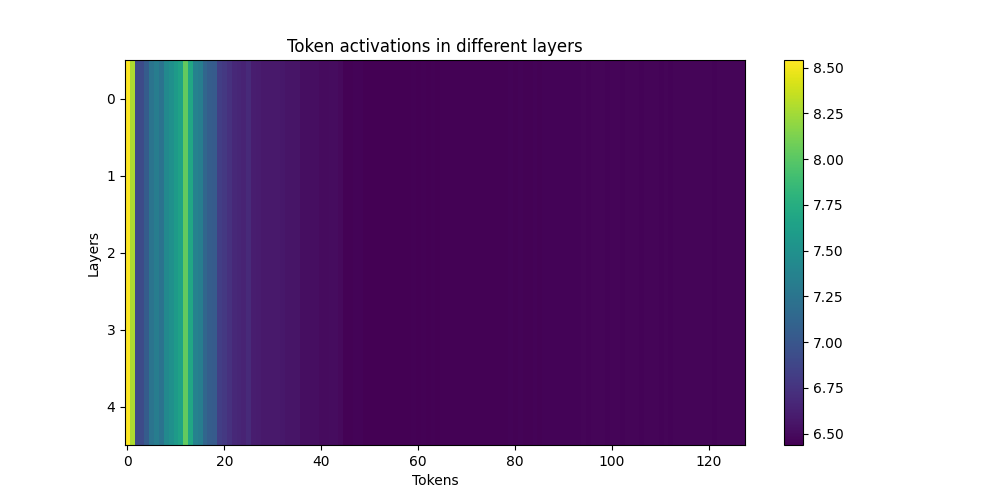
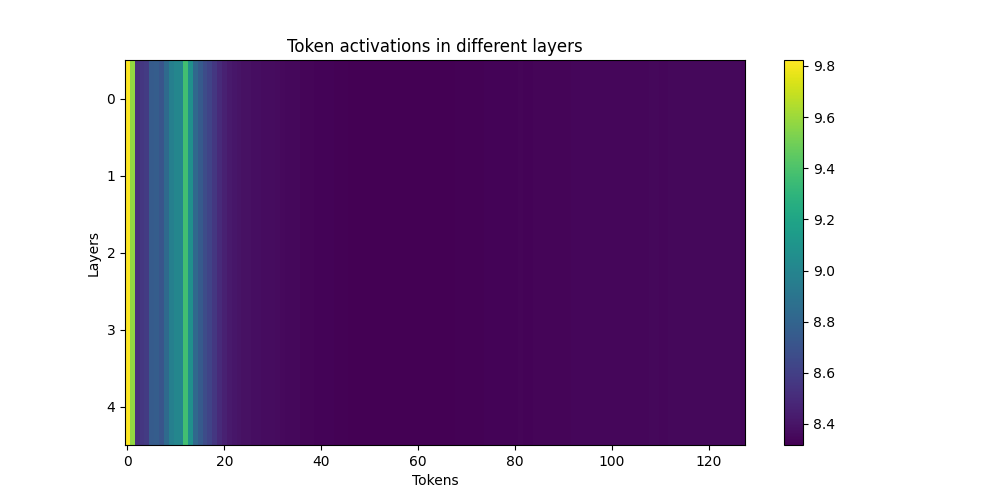
activation norm w/ batches

diff --git a/main.py b/main.py
@@ -43,6 +43,37 @@ def activation_embeds_fn(model, dataloader, batch_size): # So it contains 5 laye
             
     return activation_embeds
 
+
+def activation_embeds_fn_val_data(model, val_data, batch_size): # So it contains 5 layers and one last layer. 
+    model.eval()
+    
+    activation_embeds = {}
+    activation_embeds["layer 0"] = activation_embeds["layer 1"] = activation_embeds["layer 2"] = activation_embeds["layer 3"] = activation_embeds["layer 4"] = []
+    activation_embeds["last layer"] = []
+    
+    with t.no_grad():
+        for sample in tqdm(val_data):
+            
+            with model.trace(sample['text']) as tracer:
+                output0 = model.gpt_neox.layers[0].mlp.act.output.save()
+                output1 = model.gpt_neox.layers[1].mlp.act.output.save()
+                output2 = model.gpt_neox.layers[2].mlp.act.output.save()
+                output3 = model.gpt_neox.layers[3].mlp.act.output.save()
+                output4 = model.gpt_neox.layers[4].mlp.act.output.save()
+                output = model.embed_out.output.save()
+
+            # output0.shape -> (batch_size, 128, 2048)
+            activation_embeds["layer 0"].append(t.norm(output0, dim = -1))
+            activation_embeds["layer 1"].append(t.norm(output1, dim = -1))
+            activation_embeds["layer 2"].append(t.norm(output2, dim = -1))
+            activation_embeds["layer 3"].append(t.norm(output3, dim = -1))
+            activation_embeds["layer 4"].append(t.norm(output4, dim = -1))
+            
+    with open("data/activation_embeds_prenorm_val_data.pkl", "wb") as f:
+        pickle.dump(activation_embeds, f)
+            
+    return activation_embeds
+
 def plotting(data, name):
     # Create the heatmap
     plt.figure(figsize=(10, 5))  # Set figure size
@@ -228,15 +259,15 @@ if __name__ == "__main__":
             pickle.dump(val_dataloader, f)
     
     try:
-        with open("data/activation_embeds_prenorm.pkl", "rb") as f:
+        with open("data/activation_embeds_prenorm_val_data.pkl", "rb") as f:
             activation_embeds = pickle.load(f)
     except:
-        activation_embeds = activation_embeds_fn(model, val_dataloader, args.batch_size)
-        with open("data/activation_embeds_prenorm.pkl", "wb") as f:
+        activation_embeds = activation_embeds_fn_val_data(model, val_data, args.batch_size)
+        with open("data/activation_embeds_prenorm_val_data.pkl", "wb") as f:
             pickle.dump(activation_embeds, f)
     
 
-    normed_class = normed(activation_embeds)
+    normed_class = normed(activation_embeds, val_data)
     normed_class.normwmean()
     normed_class.norm()
     
